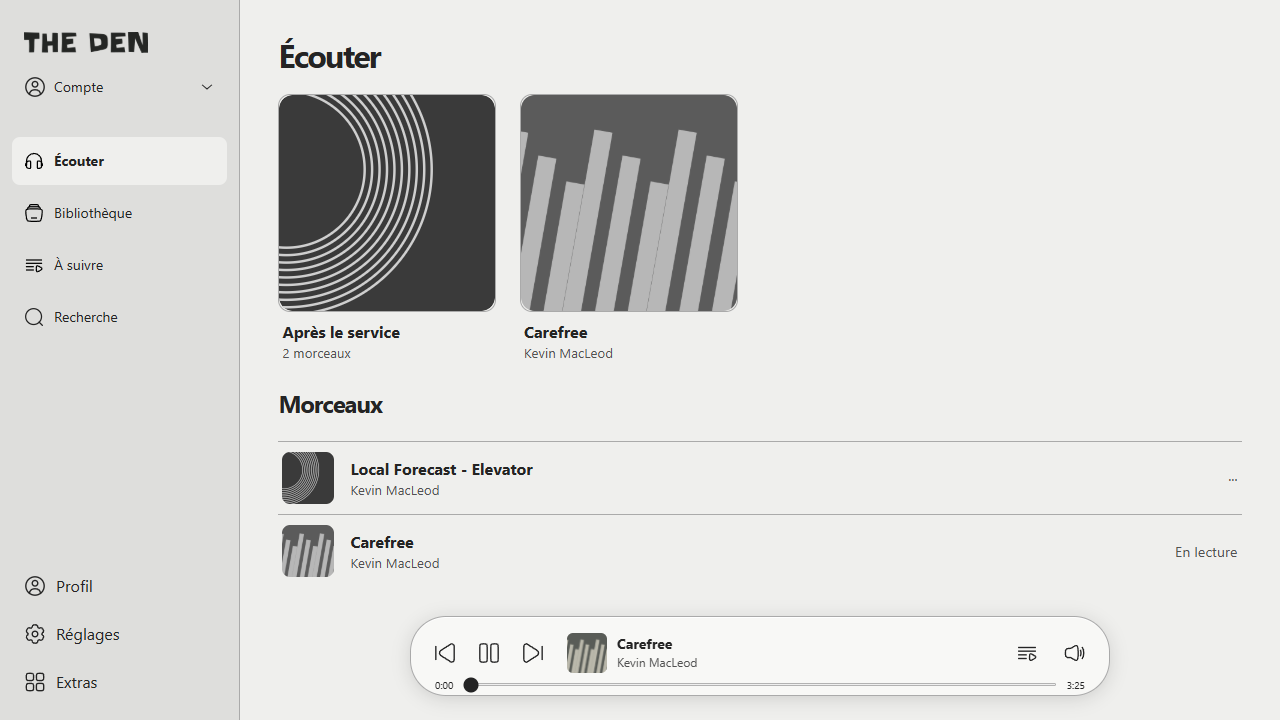
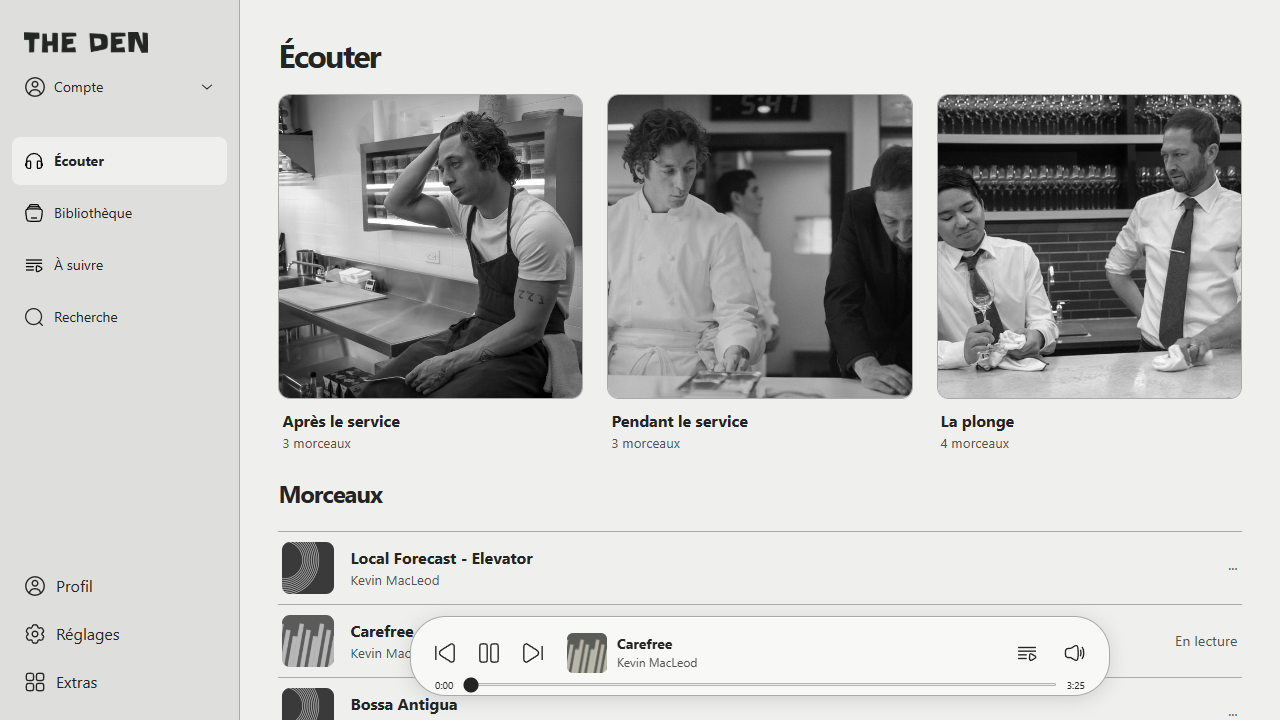
Add service, after-service and washing-up playlists with The Bear photos

diff --git a/src/TheDen.jsx b/src/TheDen.jsx
@@ -5,12 +5,14 @@ import SolarIcon from "./components/SolarIcon";
 import PlayerBar from "./components/PlayerBar";
 import { useEffect, useRef, useState } from "react";
 import tracks from "./data/selection.json";
+import playlists from "./data/playlists.json";
 
 import { MenuPage, menuPages, defaults } from "./MenuPage";
 const art = tracks.map((t) => t.art);
 const sections = ["Écouter", "Bibliothèque", "À suivre", "Recherche"];
 
 export default function TheDen({ account }) {
+  const [playlist, setPlaylist] = useState(null);
   const [section, setSection] = useState("Écouter");
   const [libraryTab, setLibraryTab] = useState("Playlists");
   const [query, setQuery] = useState("");
@@ -54,6 +56,7 @@ export default function TheDen({ account }) {
   }, []);
   const go = (page) => {
     setSection(page);
+    setPlaylist(null);
     setQuery("");
     setNotice("");
     if (prefs["Sons de navigation"] === "Activés" && window.AudioContext) {
@@ -133,7 +136,11 @@ export default function TheDen({ account }) {
     start(preview, !previewOpen);
     dialog.current.close();
   };
-  const order = section === "À suivre" ? queue : tracks.map((_, i) => i);
+  const playlistOrder = playlist?.tracks.map((id) =>
+    tracks.findIndex((t) => t.id === id),
+  );
+  const order =
+    section === "À suivre" ? queue : playlistOrder || tracks.map((_, i) => i);
   const results = order.filter((i) =>
     (tracks[i].title + " " + tracks[i].artist)
       .toLowerCase()
@@ -383,23 +390,46 @@ export default function TheDen({ account }) {
           (section === "Bibliothèque" && libraryTab === "Playlists")) &&
           !query && (
             <section className="collections" aria-label="Collections">
-              {(section === "Bibliothèque"
-                ? ["Après le service"]
-                : ["Après le service", "Carefree"]
-              ).map((title, i) => (
+              {playlists.map((p) => (
                 <button
-                  key={title}
-                  onClick={() => (i ? openTrack(i) : go("Après le service"))}
+                  key={p.id}
+                  onClick={() => {
+                    go(p.title);
+                    setPlaylist(p);
+                  }}
                 >
-                  <img src={tracks[i].art} alt="" />
-                  <strong>{title}</strong>
-                  <small>
-                    {i ? tracks[1].artist : tracks.length + " morceaux"}
-                  </small>
+                  <img
+                    src={p.cover}
+                    alt={p.alt}
+                    style={{ objectPosition: p.imagePosition }}
+                  />
+                  <strong>{p.title}</strong>
+                  <small>{p.tracks.length} morceaux</small>
                 </button>
-              ))}
+              ))}{" "}
             </section>
           )}
+        {playlist && (
+          <section className="playlist-hero" aria-label={playlist.title}>
+            <img
+              src={playlist.cover}
+              alt={playlist.alt}
+              style={{ objectPosition: playlist.imagePosition }}
+            />
+            <div>
+              <span>{playlist.tracks.length} morceaux</span>
+              <button
+                onClick={() => {
+                  setQueue(playlistOrder.slice(1));
+                  start(playlistOrder[0], false);
+                }}
+              >
+                <SolarIcon name="play" />
+                Écouter la playlist
+              </button>
+            </div>
+          </section>
+        )}
         {menu ? (
           <MenuPage
             page={section}

diff --git a/src/MenuPage.jsx b/src/MenuPage.jsx
@@ -1,4 +1,5 @@
 import tracks from "./data/selection.json";
+import playlists from "./data/playlists.json";
 
 export const options = {
   Volume: ["Silence", "35 %", "65 %", "100 %"],
@@ -39,21 +40,38 @@ export function MenuPage({ page, go, prefs, volume, select }) {
   else if (page === "Réglages")
     rows = Object.keys(options).map((n) => row(n, "›", () => go(n)));
   else if (page === "Crédits")
-    rows = tracks.map((t) => (
-      <div className="menu-row" key={t.id}>
-        <b>{t.title}</b>
-        <span>
-          {t.artist} ·{" "}
-          <a href={t.sourceUrl} target="_blank" rel="noreferrer">
-            Incompetech
-          </a>{" "}
-          ·{" "}
-          <a href={t.licenseUrl} target="_blank" rel="noreferrer">
-            {t.license}
+    rows = (
+      <>
+        {tracks.map((t) => (
+          <div className="menu-row" key={t.id}>
+            <b>{t.title}</b>
+            <span>
+              {t.artist} ·{" "}
+              <a href={t.sourceUrl} target="_blank" rel="noreferrer">
+                Incompetech
+              </a>{" "}
+              ·{" "}
+              <a href={t.licenseUrl} target="_blank" rel="noreferrer">
+                {t.license}
+              </a>
+            </span>
+          </div>
+        ))}
+        <h2>Photos des playlists</h2>
+        {playlists.map((p) => (
+          <a
+            className="menu-row"
+            href={p.sourceUrl}
+            target="_blank"
+            rel="noreferrer"
+            key={p.id}
+          >
+            <b>{p.title}</b>
+            <span>{p.credit}</span>
           </a>
-        </span>
-      </div>
-    ));
+        ))}
+      </>
+    );
   else if (page === "Source")
     rows = (
       <>

diff --git a/src/styles/components/_library.scss b/src/styles/components/_library.scss
@@ -213,3 +213,55 @@
     padding-inline: 10px;
   }
 }
+/* Three moments of the kitchen, on the same paper surface. */
+.den .collections {
+  display: grid;
+  grid-template-columns: repeat(3, minmax(0, 1fr));
+  gap: 24px;
+  max-width: 1000px;
+}
+.den .collections button {
+  width: 100%;
+  max-width: none;
+  min-width: 0;
+}
+.den .collections strong {
+  margin-top: 10px;
+}
+.playlist-hero {
+  display: flex;
+  align-items: flex-end;
+  gap: 24px;
+  margin-block: 24px;
+  img {
+    width: min(44%, 240px);
+    aspect-ratio: 1;
+    object-fit: cover;
+    border-radius: 12px;
+    filter: grayscale(1);
+  }
+  div {
+    display: grid;
+    gap: 16px;
+  }
+  button {
+    display: flex;
+    align-items: center;
+    gap: 8px;
+    background: var(--wash);
+  }
+}
+@media (max-width: #{bp.$mobile-max}) {
+  .den .collections {
+    display: flex;
+    gap: 16px;
+    overflow-x: auto;
+    padding-bottom: 12px;
+    scroll-snap-type: x mandatory;
+    justify-content: flex-start;
+  }
+  .den .collections button {
+    flex: 0 0 min(68vw, 240px);
+    scroll-snap-align: start;
+  }
+}

diff --git a/src/app/RemoteKeys.jsx b/src/app/RemoteKeys.jsx
@@ -6,6 +6,7 @@ export default function RemoteKeys() {
       localStorage.getItem("dimension-still") || "0";
     function move(e) {
       if (
+        e.defaultPrevented ||
         e.altKey ||
         e.ctrlKey ||
         e.metaKey ||
@@ -13,6 +14,12 @@ export default function RemoteKeys() {
       )
         return;
       const dialog = document.querySelector("dialog[open]");
+      const preview=document.querySelector(".track-preview");
+      if((e.key==="Escape"||e.key==="Backspace")&&preview){
+        e.preventDefault();
+        preview.querySelector(".return")?.click();
+        return;
+      }
       if (
         (e.key === "Escape" || e.key === "Backspace") &&
         !dialog &&
@@ -46,3 +53,5 @@ export default function RemoteKeys() {
   }, []);
   return null;
 }
+
+
